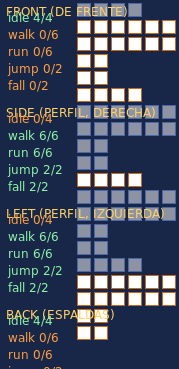
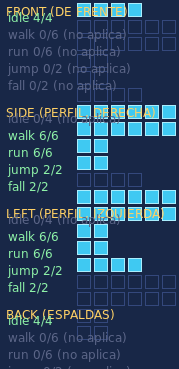
Informe de movimiento: distinguir «falta» de «no corresponde»
En modo automático la vista sigue a la animación, así que la hoja frontal sólo
reproduce el reposo y los perfiles sólo el movimiento. El informe y el mapa de
calor marcaban como «faltan» los frames que, por diseño, esa vista no usa.

* el informe anota «(no se usa en esta vista)» y añade leyenda;
* el mapa de calor pinta en cian lo visto, en naranja lo que falta y en gris
  lo que no corresponde, con las etiquetas en el mismo color;
* nueva comprobación: la cobertura esperada por hoja está completa (40/40).

diff --git a/README.md b/README.md
@@ -151,7 +151,7 @@ motor y escribe en `assets/`:
 | Archivo | Qué es |
 | --- | --- |
 | `movimiento-informe.txt` | secuencia de vista/animación, cobertura por hoja y resultado de las 10 comprobaciones |
-| `movimiento-cobertura.png` | mapa de calor: frame de cada hoja visto o no |
+| `movimiento-cobertura.png` | mapa de calor: frames usados (cian), que faltan (naranja) y los que no le tocan a esa vista (gris) |
 | `movimiento-perfil.gif` | andar, correr, saltar y caer en perfil (derecha e izquierda) |
 | `movimiento-frente.gif` | reposo, andar, correr y salto con la hoja frontal |
 | `movimiento-espaldas.gif` | la hoja de espaldas completa |
@@ -161,9 +161,10 @@ Las comprobaciones cubren que se usan las cinco animaciones, que aparecen las do
 vistas laterales, que quieto se ve de frente y tras unos segundos de espaldas,
 que el salto y la caída tienen sus frames, que no hay saltos de posición
 inexplicables, que **las animaciones que aparecen muestran todos sus frames**,
-que el ciclo completo se ve en ambas direcciones, que ningún frame parpadea y que
-el ritmo es coherente (≥ 4 frames de juego por frame de sprite). Si alguna falla,
-el comando termina con código 1.
+que el ciclo completo se ve en ambas direcciones, que **la cobertura esperada por
+hoja está completa (40/40)**, que ningún frame parpadea y que el ritmo es
+coherente (≥ 4 frames de juego por frame de sprite). Si alguna falla, el comando
+termina con código 1.
 
 ---
 
